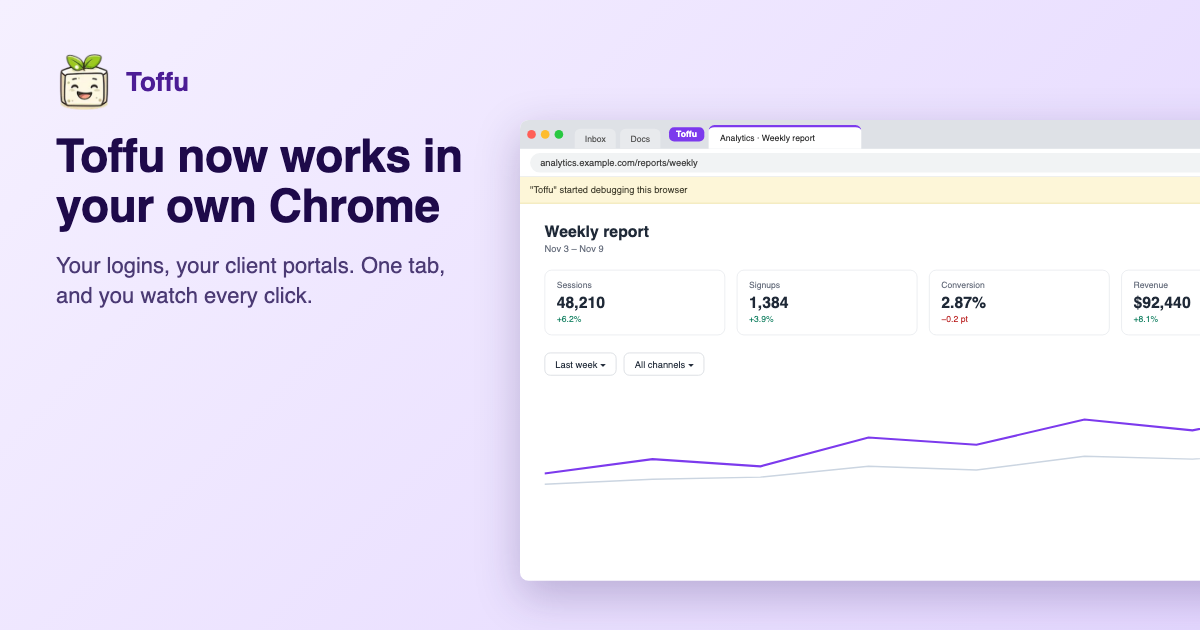
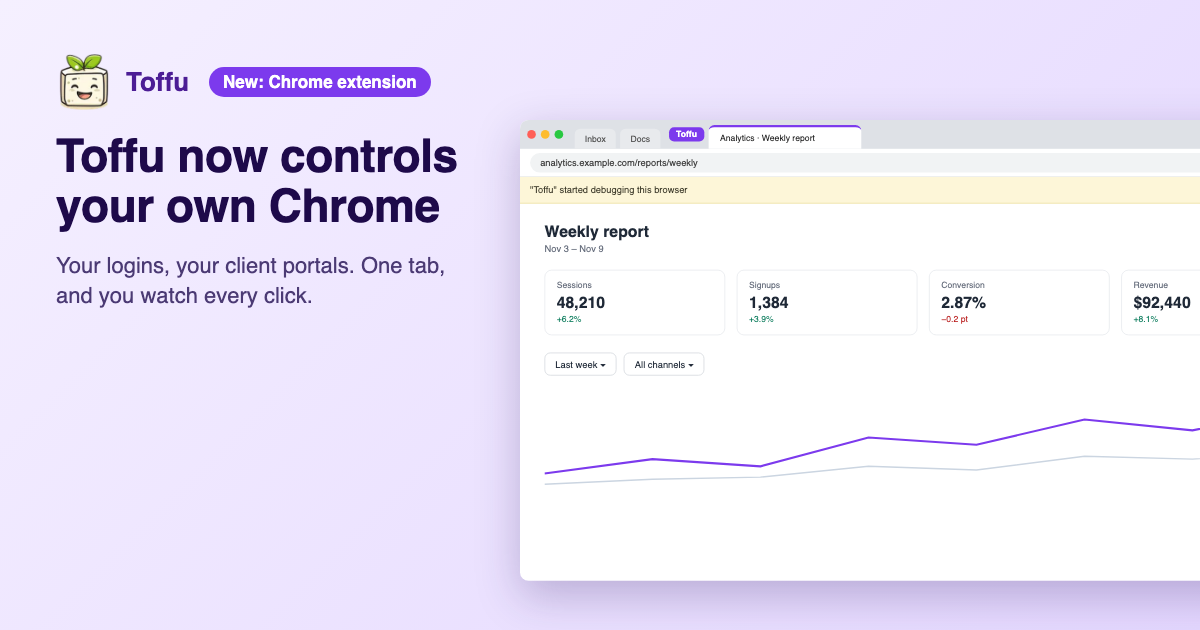
Blog: about the Chrome extension, with how it differs from the Cloud Browser
Claude-Session: https://claude.ai/code/session_012MFstzonV6nCBbZf2XGeCV

Changed region(s): [[0.1542, 0.0905, 0.37, 0.181], [0.2158, 0.2111, 0.4008, 0.2714]]

diff --git a/he/posts/toffu-in-your-own-chrome.md b/he/posts/toffu-in-your-own-chrome.md
@@ -1,7 +1,7 @@
 ---
 source: local
-title: "עכשיו Toffu עובד בכרום שלכם"
-description: "פורטלים של לקוחות, Looker Studio, דשבורדים בלי אינטגרציה: Toffu פותח אותם בלשונית Toffu בכרום שלכם, עם ההתחברויות שלכם, ואתם רואים כל קליק."
+title: "תוסף הכרום של Toffu: עכשיו Toffu עובד בכרום שלכם"
+description: "עם תוסף הכרום החדש, Toffu שולט בכרום שלכם: פורטלים ודשבורדים של לקוחות עם ההתחברויות שלכם, בלשונית Toffu אחת, ואתם רואים כל קליק."
 date: "2026-11-10"
 image: "https://raw.githubusercontent.com/toffu-ai/blog-posts/main/images/toffu-in-your-own-chrome-hero.png"
 slug: "toffu-in-your-own-chrome"
@@ -9,25 +9,25 @@ lang: "he"
 dir: "rtl"
 ---
 
-*פורטלים של לקוחות, Looker Studio, דשבורדים בלי אינטגרציה: Toffu פותח אותם בלשונית Toffu בכרום שלכם, עם ההתחברויות שלכם, ואתם רואים כל קליק.*
+*עם תוסף הכרום החדש, Toffu שולט בכרום שלכם: פורטלים ודשבורדים של לקוחות עם ההתחברויות שלכם, בלשונית Toffu אחת, ואתם רואים כל קליק.*
 
 ---
 
 בכל סוכנות יש את אותו פער. גוגל אדס, מטא ו-GA4 מחוברים, ו-Toffu קורא אותם ופועל בהם. אבל חלק גדול מהעבודה עדיין יושב מאחורי התחברות בלי API: פורטל הדיווח של הלקוח, דוח Looker Studio שמישהו אחר בנה, דשבורד של שותף, רשת אפיליאייט, מערכת הניהול של הלקוח.
 
-עד עכשיו, החלק הזה נגמר ב"תייצאו CSV ותעלו לכאן". השבוע אנחנו סוגרים את הפער.
+הרבה מהאתרים האלה גם לא סומכים על דפדפן חדש. הם שולחים קוד לטלפון בכל מכשיר חדש, או נפתחים רק מרשת המשרד. הדפדפן שכבר עובר את הבדיקות האלה הוא זה שעל המחשב שלכם.
 
-## שני דפדפנים, בקשה אחת
+לכן היום אנחנו משיקים את **תוסף הכרום של Toffu**. הוא מאפשר ל-Toffu לשלוט בכרום שלכם.
 
-**הדפדפן של Toffu** רץ בענן, ואתם רואים אותו בחלונית ליד הצ'אט. כשצעד דורש אתכם, כמו התחברות או קוד אימות, Toffu עוצר ואתם עושים את הצעד בחלונית. ההתחברות נשמרת עבורכם, כך שהמשימה הבאה, וכל ריצה מתוזמנת, מתחילה כבר מחוברת.
+## איך זה עובד
 
-**הכרום שלכם** הוא החדש. מתקינים את תוסף Toffu לכרום, ו-Toffu עובד בלשונית של הכרום שאתם כבר משתמשים בו: אותן התחברויות, אותה רשת משרדית. זה חשוב באתרים שלא סומכים על דפדפן חדש: פורטל ששולח קוד לטלפון בכל מכשיר חדש, כלי שנפתח רק מרשת המשרד, או דשבורד שרץ על המחשב שלכם.
-
-בוחרים במשפט אחד. מבקשים כרגיל ומוסיפים "תשתמש בכרום שלי":
+מתקינים את התוסף ומתחברים ל-Toffu באותו כרום. ואז מבקשים כרגיל ומוסיפים "תשתמש בכרום שלי":
 
 ```
 תשתמש בכרום שלי. תפתח את הפורטל של הלקוח, תקרא את הלידים של אוקטובר לפי קמפיין, ותשווה למה שגוגל אדס מדווח על אותם קמפיינים.
 ```
+
+Toffu פותח את הפורטל בכרום שלכם, כבר מחובר עם החיבור שלכם, קורא מה שהוא צריך וחוזר לצ'אט עם התשובה.
 
 ## לשונית אחת, וכל קליק לנגד העיניים
 
@@ -46,16 +46,20 @@ Toffu אף פעם לא מקליד סיסמה. כשהוא מגיע להתחברו
 
 התוסף לא קורא את העוגיות, הסיסמאות השמורות, ההיסטוריה או הלשוניות האחרות שלכם. הוא מסרב לכל פקודת דפדפן מלבד חמש שהוא צריך כדי לקרוא עמוד ולהפעיל אותו. [מדיניות הפרטיות](https://toffu.ai/privacy#chrome-extension) מפרטת בדיוק מה הוא קורא וכמה זמן נשמר כל דבר.
 
-## במה להשתמש
+## זה לא דפדפן הענן
 
-**הדפדפן של Toffu** מתאים למשימות שרצות כשאתם לא שם, כמו משיכה שבועית מפורטל של לקוח במשימה מתוזמנת. מתחברים פעם אחת, ו-Toffu שומר את ההתחברות.
+ל-Toffu יש גם **דפדפן ענן**: דפדפן שרץ על השרתים של Toffu ומוצג בחלונית ליד הצ'אט. הם עושים עבודות שונות.
 
-**הכרום שלכם** מתאים כשהאתר צריך את החיבור שלכם או את המחשב שלכם, או כשאתם רוצים לראות את העבודה קורית מולכם.
+- **דפדפן הענן** עובד גם כשהמחשב שלכם כבוי. מתחברים פעם אחת, Toffu שומר את ההתחברות, ומשימות מתוזמנות משתמשות בה, כמו משיכה שבועית מפורטל של לקוח.
+- **תוסף הכרום** עובד בכרום שלכם, עם החיבורים שכבר יש לכם. משתמשים בו כשהאתר צריך את החיבור שלכם או את המחשב שלכם, או כשרוצים לראות את העבודה קורית מולכם.
+
+בלי "תשתמש בכרום שלי" בבקשה, Toffu משתמש בדפדפן הענן.
 
 ## איך מתחילים
 
-הדפדפן הוא חלק מתוסף **Browser**. בחשבון סוכנות, אדמין של הסוכנות מפעיל אותו פעם אחת ב-[AI Settings → Browser logins](https://toffu.ai/ai-settings/browser-logins), והוא עובד בכל סביבות הלקוחות.
+1. מתקינים את [תוסף הכרום של Toffu](CHROME_WEB_STORE_URL).
+2. מתחברים ל-[toffu.ai](https://toffu.ai) באותו כרום. התוסף מתחבר לבד.
 
-לכרום שלכם, מתקינים את [תוסף Toffu](CHROME_WEB_STORE_URL) ומתחברים ל-[toffu.ai](https://toffu.ai) באותו כרום. הוא מתחבר לבד.
+התוסף הוא חלק מתוסף **Browser**. בחשבון סוכנות, אדמין של הסוכנות מפעיל אותו פעם אחת ב-[AI Settings → Browser logins](https://toffu.ai/ai-settings/browser-logins), והוא עובד בכל סביבות הלקוחות.
 
-הגדרה, העברת שליטה, התחברויות שמורות ופתרון תקלות נמצאים ב[מדריך הדפדפן](https://toffu.ai/academy/browser).
+הגדרה, העברת שליטה ופתרון תקלות נמצאים ב[מדריך תוסף הכרום](https://toffu.ai/academy/chrome-extension).

diff --git a/posts/toffu-in-your-own-chrome.md b/posts/toffu-in-your-own-chrome.md
@@ -1,37 +1,35 @@
 ---
 source: local
-title: "Toffu Now Works in Your Own Chrome"
-description: "Client portals, Looker Studio, dashboards with no integration: Toffu can now open them in a Toffu tab of your own Chrome, with your logins, while you watch."
+title: "The Toffu Chrome Extension: Toffu Now Works in Your Own Chrome"
+description: "With the new Toffu Chrome extension, Toffu controls your own Chrome: client portals and dashboards with your logins, in one Toffu tab, while you watch every click."
 date: "2026-11-10"
 image: "https://raw.githubusercontent.com/toffu-ai/blog-posts/main/images/toffu-in-your-own-chrome-hero.png"
 slug: "toffu-in-your-own-chrome"
 ---
 
-*Client portals, Looker Studio, dashboards with no integration: Toffu can now open them in a Toffu tab of your own Chrome, with your logins, while you watch.*
+*With the new Toffu Chrome extension, Toffu controls your own Chrome: client portals and dashboards with your logins, in one Toffu tab, while you watch every click.*
 
 ---
 
 Every agency has the same gap. Google Ads, Meta and GA4 are connected, so Toffu can read them and act on them. But a good part of the work still sits behind a login with no API: the client's reporting portal, a Looker Studio report someone else built, a partner dashboard, an affiliate network, the client's own back office.
 
-Until now, that part ended with "export it as a CSV and upload it here." This week we close that gap.
+Many of those sites also do not trust a new browser. They send a code to your phone on every new device, or open only from your office network. The browser that already passes those checks is the one on your computer.
 
-## Two browsers, one request
+So today we are releasing the **Toffu Chrome extension**. It lets Toffu control your own Chrome.
 
-Toffu can now work in a browser in two ways.
+## How it works
 
-**Toffu's browser** runs in the cloud. You see it in a panel next to the chat. When a step needs you, like a login or a 2FA code, Toffu stops and you do that step in the panel. The login is then saved for you, so the next task, and every scheduled run, starts already logged in.
-
-**Your own Chrome** is new. Install the Toffu Chrome extension, and Toffu can work in a tab of the Chrome you already use: same logins, same sessions, same office network. That matters for the sites that do not trust a new browser: a portal that sends a code to your phone on every new device, a tool that only opens from your office network, or a dashboard on your own computer.
-
-You choose with one phrase. Ask as usual, and add "use my own Chrome":
+Install the extension and sign in to Toffu in the same Chrome. Then ask as usual, and add "use my own Chrome":
 
 ```
 Use my own Chrome. Open the client portal, read October's leads by campaign, and compare them with what Google Ads reports for the same campaigns.
 ```
 
+Toffu opens the portal in your Chrome, already logged in with your session, reads what it needs and comes back to the chat with the answer.
+
 ## One tab, and you see every click
 
-Giving an AI agent your browser should not mean giving it your browser. So the extension works in one tab only: the tab of a purple **Toffu** tab group. If there is no such tab, the extension opens one. Your email, your other clients and every other tab stay out of reach. To hand Toffu a page you already have open, drag that tab into the group.
+Giving an AI agent your browser should not mean giving it your whole browser. So the extension works in one tab only: the tab of a purple **Toffu** tab group. If there is no such tab, the extension opens one. Your email, your other clients and every other tab stay out of reach. To hand Toffu a page you already have open, drag that tab into the group.
 
 ![Toffu working in the Toffu tab of your own Chrome](https://raw.githubusercontent.com/toffu-ai/blog-posts/main/images/toffu-in-your-own-chrome-tab.png)
 
@@ -46,16 +44,20 @@ Toffu never types a password. When it reaches a login, a code or a captcha, it a
 
 The extension does not read your cookies, saved passwords, history or other tabs. It refuses every browser command except the five it needs to read a page and operate it. The [privacy policy](https://toffu.ai/privacy#chrome-extension) lists exactly what it reads and how long anything is kept.
 
-## Which one to use
+## Not the same as the Cloud Browser
 
-Use **Toffu's browser** for tasks that should run when you are not there, like a weekly pull from a client portal on a schedule. Log in once, and Toffu keeps the login.
+Toffu also has a **Cloud Browser**: a browser that runs on Toffu's servers and shows in a panel next to the chat. They do different jobs.
 
-Use **your own Chrome** when the site needs your own session or your own computer, or when you want to watch the work happen in front of you.
+- **The Cloud Browser** works when your computer is off. You log in once, Toffu keeps the login, and scheduled tasks use it, like a weekly pull from a client portal.
+- **The Chrome extension** works in your own Chrome, with the sessions you already have. Use it when a site needs your own session or your own computer, or when you want to watch the work happen in front of you.
+
+Without "use my own Chrome" in the request, Toffu uses the Cloud Browser.
 
 ## Get started
 
-The browser is part of the **Browser** add-on. On an agency account, an admin of the agency turns it on once in [AI Settings → Browser logins](https://toffu.ai/ai-settings/browser-logins), and it then works in every client workspace.
+1. Install the [Toffu Chrome extension](CHROME_WEB_STORE_URL).
+2. Sign in to [toffu.ai](https://toffu.ai) in the same Chrome. The extension connects by itself.
 
-For your own Chrome, install the [Toffu extension](CHROME_WEB_STORE_URL) and sign in to [toffu.ai](https://toffu.ai) in the same Chrome. It connects by itself.
+The extension is part of the **Browser** add-on. On an agency account, an admin of the agency turns it on once in [AI Settings → Browser logins](https://toffu.ai/ai-settings/browser-logins), and it then works in every client workspace.
 
-Setup, takeovers, saved logins and troubleshooting are in the [Browser guide](https://toffu.ai/academy/browser).
+Setup, takeovers and troubleshooting are in the [Chrome extension guide](https://toffu.ai/academy/chrome-extension).

diff --git a/drafts/social-toffu-in-your-own-chrome.md b/drafts/social-toffu-in-your-own-chrome.md
@@ -1,4 +1,4 @@
-# Social posts: Toffu in your own Chrome
+# Social posts: the Toffu Chrome extension
 
 Drafts only. Post them after the extension is live in the Chrome Web Store and
 `CHROME_WEB_STORE_URL` in the blog post is replaced with the store link.
@@ -15,15 +15,17 @@ Every agency has data behind a login with no API: the client's reporting portal,
 
 Until now, that part ended with "export a CSV and upload it."
 
-Toffu can now open those in your own Chrome, with your own logins.
+Today we release the Toffu Chrome extension. It lets Toffu control your own Chrome, with the logins and sessions you already have.
 
-Install the Toffu Chrome extension and ask:
+Install it and ask:
 "Use my own Chrome. Open the client portal and compare October's leads with what Google Ads reports."
 
 → Toffu works in one tab only: the purple Toffu tab group. Your other tabs stay out of reach.
 → You see every click. Toffu's cursor moves to each button before it clicks.
 → Cancel on Chrome's bar stops it at once.
 → It never types a password. Logins and 2FA codes come back to you in the chat.
+
+Not the same as Toffu's Cloud Browser, which runs on our servers and keeps working when your computer is off. The extension is for the sites that need your own session.
 
 Part of the Browser add-on. How it works: https://toffu.ai/blog/toffu-in-your-own-chrome
 ```
@@ -35,9 +37,9 @@ Part of the Browser add-on. How it works: https://toffu.ai/blog/toffu-in-your-ow
 
 עד היום זה נגמר ב"תייצאו CSV ותעלו".
 
-מהיום Toffu עובד בכרום שלכם, עם ההתחברויות שלכם.
+היום אנחנו משיקים את תוסף הכרום של Toffu. הוא מאפשר ל-Toffu לשלוט בכרום שלכם, עם ההתחברויות שכבר יש לכם.
 
-מתקינים את התוסף של Toffu לכרום ומבקשים:
+מתקינים ומבקשים:
 "תשתמש בכרום שלי. תפתח את הפורטל של הלקוח ותשווה את הלידים של אוקטובר למה שגוגל אדס מדווח."
 
 ← Toffu עובד בלשונית אחת בלבד, בקבוצת הלשוניות הסגולה Toffu. שאר הלשוניות מחוץ להישג יד.
@@ -45,13 +47,15 @@ Part of the Browser add-on. How it works: https://toffu.ai/blog/toffu-in-your-ow
 ← Cancel בפס של כרום עוצר אותו מיד.
 ← הוא אף פעם לא מקליד סיסמה. התחברות וקודי אימות חוזרים אליכם בצ'אט.
 
+זה לא דפדפן הענן של Toffu, שרץ על השרתים שלנו ועובד גם כשהמחשב כבוי. התוסף מיועד לאתרים שצריכים את החיבור שלכם.
+
 חלק מתוסף Browser. איך זה עובד: https://toffu.ai/he/blog/toffu-in-your-own-chrome
 ```
 
 ## X (English)
 
 ```
-Toffu now works in your own Chrome.
+New: the Toffu Chrome extension. Toffu now controls your own Chrome.
 
 Client portals, Looker Studio, dashboards with no API: ask "use my own Chrome" and Toffu does the task in one Toffu tab, with your logins, while you watch every click.
 
